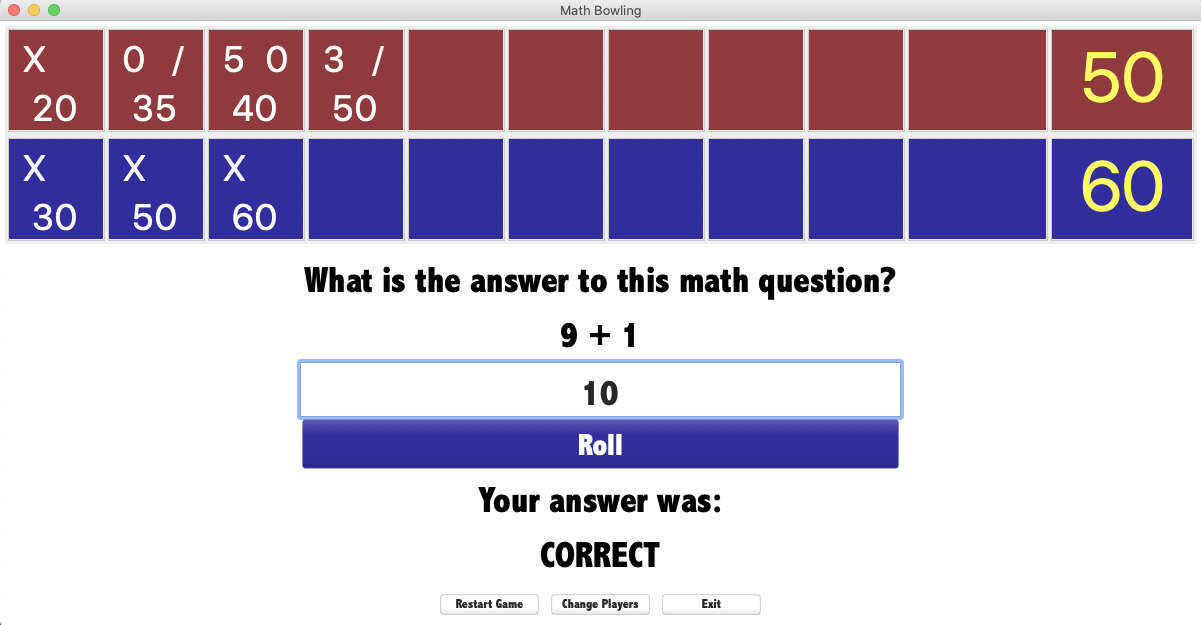
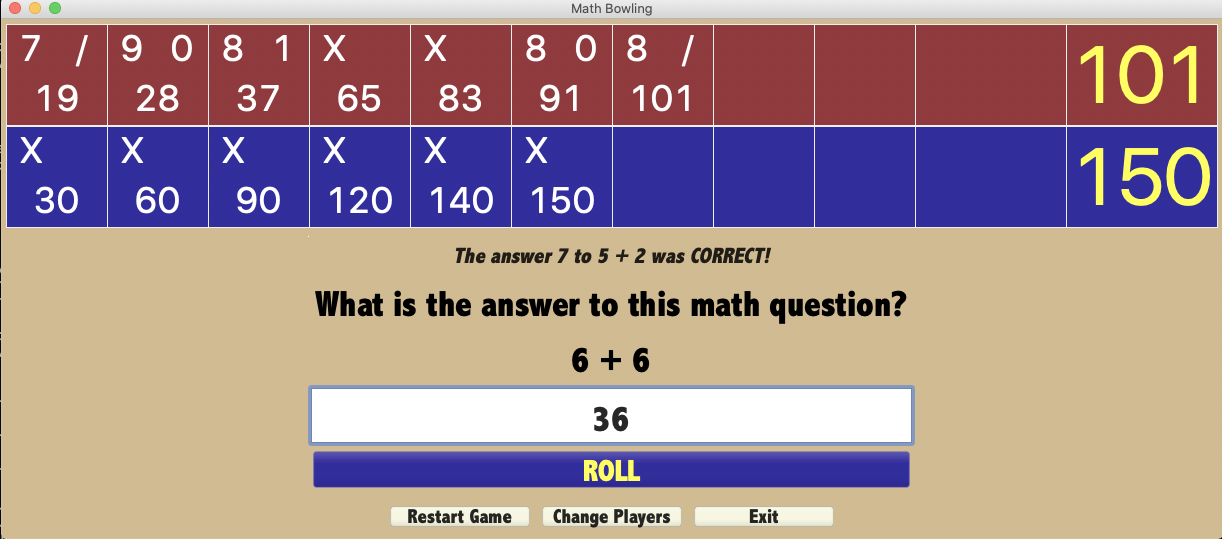
Upgraded Glimmer to 0.4.2 and did further styling

diff --git a/app/views/math_bowling/game_view.rb b/app/views/math_bowling/game_view.rb
@@ -15,13 +15,16 @@ module MathBowling
     include Glimmer
 
 
-    attr_accessor :display, :game_view_visible, :question_container
+    attr_accessor :display, :game_view_visible, :question_container, :answer_result_announcement
     attr_reader :game, :player_count
 
     def initialize(player_count, display)
       @player_count = player_count
       @display = display
       @game = MathBowling::Game.new(player_count)
+      Observer.proc {
+        self.answer_result_announcement = "The answer #{@game.answer.to_i} to #{@game.question} was #{@game.answer_result}!"
+      }.observe(@game, :answer_result)
       register_sound_effects
       build_game_container
     end
@@ -64,8 +67,8 @@ module MathBowling
     def build_game_container
       @font = CONFIG[:font].merge(height: 36)
       @font_button = CONFIG[:font].merge(height: 30)
-      @game_container = shell {
-        @background = :color_white
+      @game_container = shell(:no_resize) {
+        @background = rgb(206, 177, 128)
         @foreground = :color_black
         text "Math Bowling"
         composite {
@@ -80,8 +83,18 @@ module MathBowling
             layout_data GridData.new(GSWT[:fill], GSWT[:fill], true, true)
             background @background
             @question_container = composite {
-              fill_layout :vertical
+              row_layout {
+                type :vertical
+                fill true
+                spacing 6
+              }
               background @background
+              label(:center) {
+                background @background
+                text bind(self, 'answer_result_announcement')
+                visible bind(self, 'question_image.done')
+                font @font.merge height: 22, style: :italic
+              }
               label(:center) {
                 background @background
                 foreground @foreground
@@ -103,10 +116,13 @@ module MathBowling
                 }
               }
               button(:center) {
-                text "Roll"
+                text "ROLL"
+                layout_data {
+                  height 42
+                }
                 font @font_button
                 background bind(self, :player_color, computed_by: ["game.current_player.index"])
-                foreground @background
+                foreground :color_yellow
                 enabled bind(@game, :in_progress?, computed_by: 10.times.map {|index| "current_player.score_sheet.frames[#{index}].rolls"})
                 on_widget_selected {
                   @game.roll
@@ -115,19 +131,6 @@ module MathBowling
                   @game.roll if key_event.keyCode == GSWT[:cr]
                 }
               }
-              label(:center) {
-                background @background
-                foreground @foreground
-                text "The answer was: "
-                visible bind(self, 'question_image.done')
-                font @font
-              }
-              label(:center) {
-                background @background
-                foreground @foreground
-                text bind(@game, 'answer_result')
-                font @font
-              }
             }
           }
           composite {
@@ -135,7 +138,7 @@ module MathBowling
             layout_data :center, :center, true, true
             background @background
             @restart_button = button {
-              background @background
+              background CONFIG[:button_background]
               text "Restart Game"
               font CONFIG[:font]
               on_widget_selected {
@@ -143,7 +146,7 @@ module MathBowling
               }
             }
             button {
-              background @background
+              background CONFIG[:button_background]
               text "Change Players"
               font CONFIG[:font]
               on_widget_selected {
@@ -152,7 +155,7 @@ module MathBowling
               }
             }
             button {
-              background @background
+              background CONFIG[:button_background]
               text "Exit"
               font CONFIG[:font]
               on_widget_selected {

diff --git a/app/views/math_bowling/app_view.rb b/app/views/math_bowling/app_view.rb
@@ -8,7 +8,7 @@ require_relative 'game_view'
 
 module MathBowling
   class AppView
-    FILE_PATH_IMAGE_MATH_BOWLING = "../../../../images/math-bowling.png"
+    FILE_PATH_IMAGE_MATH_BOWLING = "../../../../images/math-bowling.gif"
     include Glimmer
 
     include_package 'java.lang'
@@ -30,8 +30,13 @@ module MathBowling
         @initially_focused_widget.widget.setFocus
         @game_type_container.widget.setVisible(true)
       else
-        @game_type_container = shell {
-          grid_layout 1, true
+        @game_type_container = shell(:no_resize) {
+          grid_layout {
+            num_columns 1
+            make_columns_equal_width true
+            margin_width 35
+            margin_height 35
+          }
           on_paint_control {
             # Doing on paint control to use calculated shell size
             unless @game_type_container.widget.getBackgroundImage
@@ -54,9 +59,9 @@ module MathBowling
             layout_data :center, :center, true, true
             background :color_transparent
             @initially_focused_widget = button {
-              # background CONFIG[:background]
               text "1 Player"
               font CONFIG[:font]
+              background CONFIG[:button_background]
               on_widget_selected {
                 @game_type_container.widget.setVisible(false)
                 @game_views[0].render
@@ -65,6 +70,7 @@ module MathBowling
             button {
               text "2 Players"
               font CONFIG[:font]
+              background CONFIG[:button_background]
               on_widget_selected {
                 @game_type_container.widget.setVisible(false)
                 @game_views[1].render
@@ -75,6 +81,7 @@ module MathBowling
             layout_data :center, :center, true, true
             text "Exit"
             font CONFIG[:font]
+            background CONFIG[:button_background]
             on_widget_selected {
               exit(true)
             }

diff --git a/app/views/math_bowling/score_board_view.rb b/app/views/math_bowling/score_board_view.rb
@@ -16,25 +16,40 @@ module MathBowling
     def render
       @content = composite {
         fill_layout :vertical
+        background :color_transparent
         @game.player_count.times.map do |player_index|
           composite {
-            row_layout :horizontal
+            row_layout {
+              type :horizontal
+              margin_left 1
+              margin_right 1
+              margin_top 1
+              margin_bottom 1
+              spacing 1
+            }
             ScoreSheet::COUNT_FRAME.times.map do |frame_index|
               MathBowling::FrameView.new(@game_container, @game, player_index, frame_index).render
             end
             @red = rgb(138, 31, 41)
             @blue = rgb(31, 26, 150)
             @background = player_index % 2 == 0 ? @red : @blue
-            @foreground = rgb(255, 255, 0)
-            composite(:border) {
-              row_layout :horizontal
+            @foreground = :color_yellow
+            composite {
+              row_layout {
+                type :horizontal
+                margin_left 0
+                margin_right 0
+                margin_top 0
+                margin_bottom 0
+                spacing 0
+              }
               background @background
               label(:center) {
                 text bind(@game, "players[#{player_index}].score_sheet.total_score", computed_by: 10.times.map {|index| "players[#{player_index}].score_sheet.frames[#{index}].rolls"})
-                layout_data RowData.new(135, 95)
+                layout_data RowData.new(150, 100)
                 background @background
                 foreground @foreground
-                font CONFIG[:scoreboard_font].merge(height: 70)
+                font CONFIG[:scoreboard_font].merge(height: 80)
               }
             }
           }

diff --git a/app/views/math_bowling/frame_view.rb b/app/views/math_bowling/frame_view.rb
@@ -2,9 +2,9 @@ require 'glimmer'
 
 module MathBowling
   class FrameView
-    SIZE_ROLL_SCORE = [40, 40]
-    SIZE_RUNNING_SCORE = [80, 40]
-    SIZE_RUNNING_SCORE_FINAL = [120, 40]
+    SIZE_ROLL_SCORE = [50, 50]
+    SIZE_RUNNING_SCORE = [100, 50]
+    SIZE_RUNNING_SCORE_FINAL = [150, 50]
     include Glimmer
 
     def initialize(game_container, game, player_index, frame_index)
@@ -16,16 +16,30 @@ module MathBowling
       @red = rgb(138, 31, 41)
       @blue = rgb(31, 26, 150)
       @background = player_index % 2 == 0 ? @red : @blue
-      @foreground = rgb(255, 255, 255)
+      @foreground = :color_white
       @font = CONFIG[:scoreboard_font].merge(height: 36)
     end
 
     def render
-      composite(:border) {
-        row_layout :vertical
+      composite {
+        row_layout {
+          type :vertical
+          margin_left 0
+          margin_right 0
+          margin_top 0
+          margin_bottom 0
+          spacing 0
+        }
         background @background
         composite {
-          row_layout :horizontal
+          row_layout {
+            type :horizontal
+            margin_left 0
+            margin_right 0
+            margin_top 0
+            margin_bottom 0
+            spacing 0
+          }
           background @background
           label(:center) {
             text bind(@game, "players[#{@player_index}].score_sheet.frames[#{@frame_index}].rolls[0]")
@@ -57,6 +71,11 @@ module MathBowling
             type :horizontal
             pack false
             justify true
+            margin_left 0
+            margin_right 0
+            margin_top 0
+            margin_bottom 0
+            spacing 0
           }
           background @background
           label(:center) {

diff --git a/app/math_bowling.rb b/app/math_bowling.rb
@@ -7,7 +7,9 @@ module MathBowling
     font: {
       name: "Abadi MT Condensed Extra Bold",
       height: 20
-    }
+    },
+    red: rgb(138, 31, 41),
+    blue: rgb(31, 26, 150),
   }
   CONFIG = {
     font: DEFAULT[:font],
@@ -16,7 +18,8 @@ module MathBowling
     title_font: DEFAULT[:font].merge(
       height: 60,
     ),
-    title_foreground: rgb(138, 31, 41)
+    title_foreground: rgb(138, 31, 41),
+    button_background: rgb(245, 245, 220),
   }
   def self.launch
     MathBowling::AppView.new.render

diff --git a/README.md b/README.md
@@ -1,4 +1,4 @@
-# Math Bowling 0.9.0 Beta
+# Math Bowling 0.9.0 Beta 1
 
 ![Math Bowling Screenshot](https://raw.githubusercontent.com/AndyObtiva/MathBowling/master/images/Math-Bowling-Screenshot.png)
 
@@ -28,12 +28,12 @@ UC3: Exit Game
 
 # Stories / Release Plan
 
-[DONE] 0.1.0 Alpha Release:
+[DONE] 0.1.0 Alpha 1 Release:
 
 1. [DONE] Start game
 1. [DONE] Bowl with simple math question and fixed time limit
 
-[DONE] 0.2.0 Alpha Release:
+[DONE] 0.2.0 Alpha 2 Release:
 
 1. [DONE] Start two player game
 1. [DONE] Bowl the player whose turn it is to bowl
@@ -41,18 +41,18 @@ UC3: Exit Game
 1. [DONE] Layout content nicely
 1. [DONE] Play sound effects for bowling with different sounds for strike/spare, partial knock, and miss
 
-[DONE] 0.9.0 Beta Release:
+[DONE] 0.9.0 Beta 1 Release:
 
 1. [DONE] Display a splash image when launching game
 1. [DONE] Display image for getting a correct, wrong, or close answer.
 1. [DONE] Make buttons bigger
 
-0.9.1 Beta Release:
+0.9.1 Beta 2 Release:
 
 1. Add question answering time limit
 1. Center windows
 
-0.9.2 Beta Release:
+0.9.2 Beta 3 Release:
 
 1. Replace image for getting a correct, wrong, or close answer with a video instead.
 
